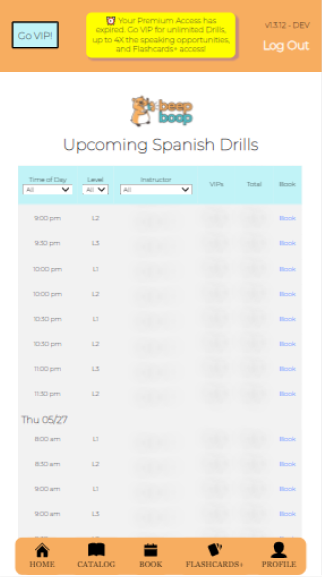
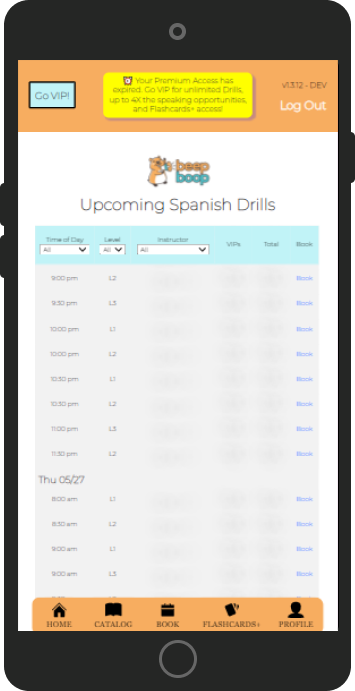
cleanup

diff --git a/src/pages/BeepboopWork/BeepboopWork.js b/src/pages/BeepboopWork/BeepboopWork.js
@@ -27,11 +27,12 @@ function BeepboopWork() {
                 <div className="landing_frame_container">
                     <div className="frame_label_container">
                         <div className="frame_label">original: </div>
-                        <PhoneFrame imageSrc={book_mobile_orig} imageAlt="screenshot" />
+                        <img className="phone_frame_image" src={book_mobile_orig} alt={"screenshot"} />
+                        
                     </div>
                     <div className="frame_label_container">
                         <div className="frame_label">redesign: </div>
-                        <PhoneFrame imageSrc={book_mobile_redesign} imageAlt="screenshot" />
+                        <img className="phone_frame_image" src={book_mobile_redesign} alt={"screenshot"} />
                     </div>
                 </div>
                 <div className="gen_img_container">
